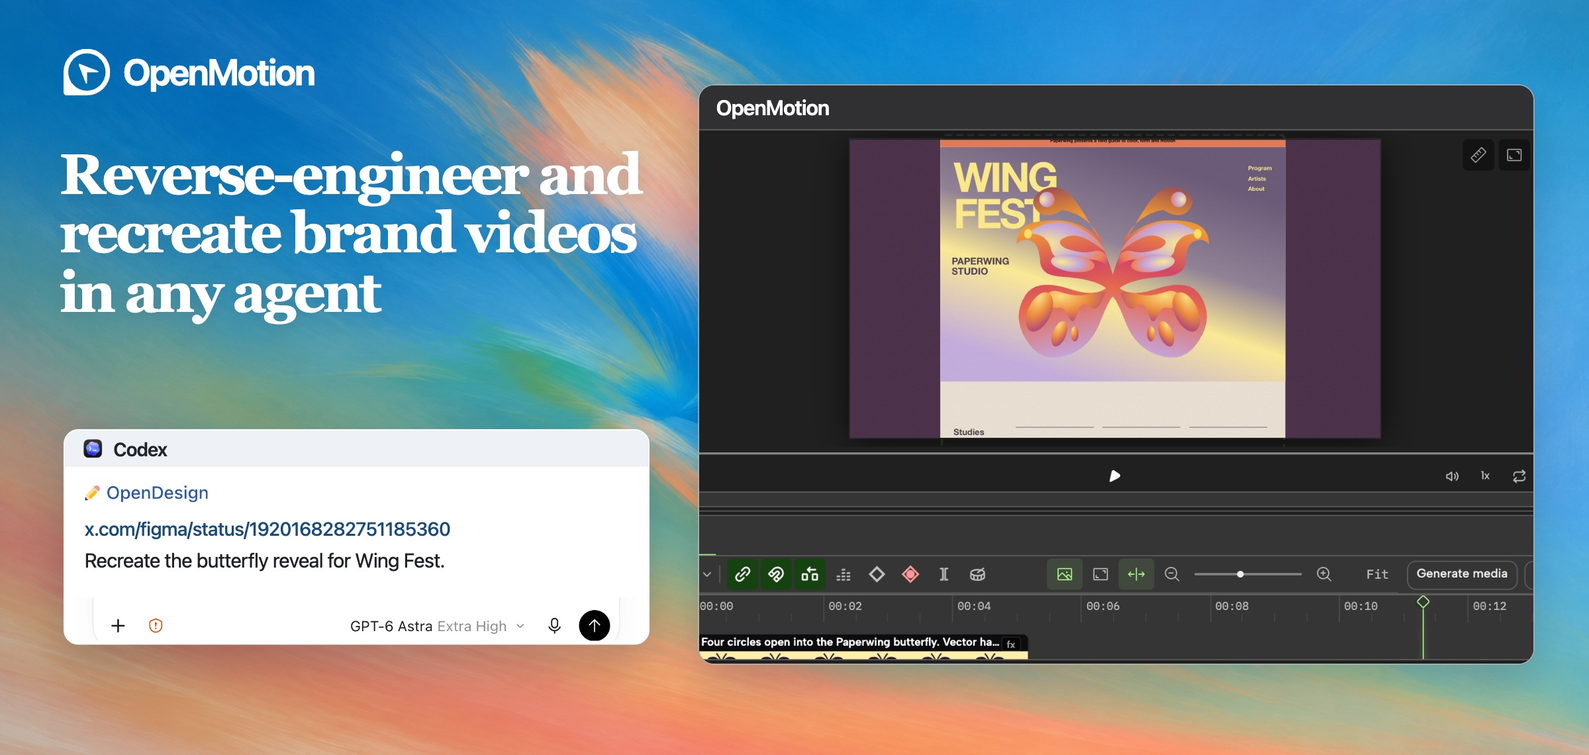
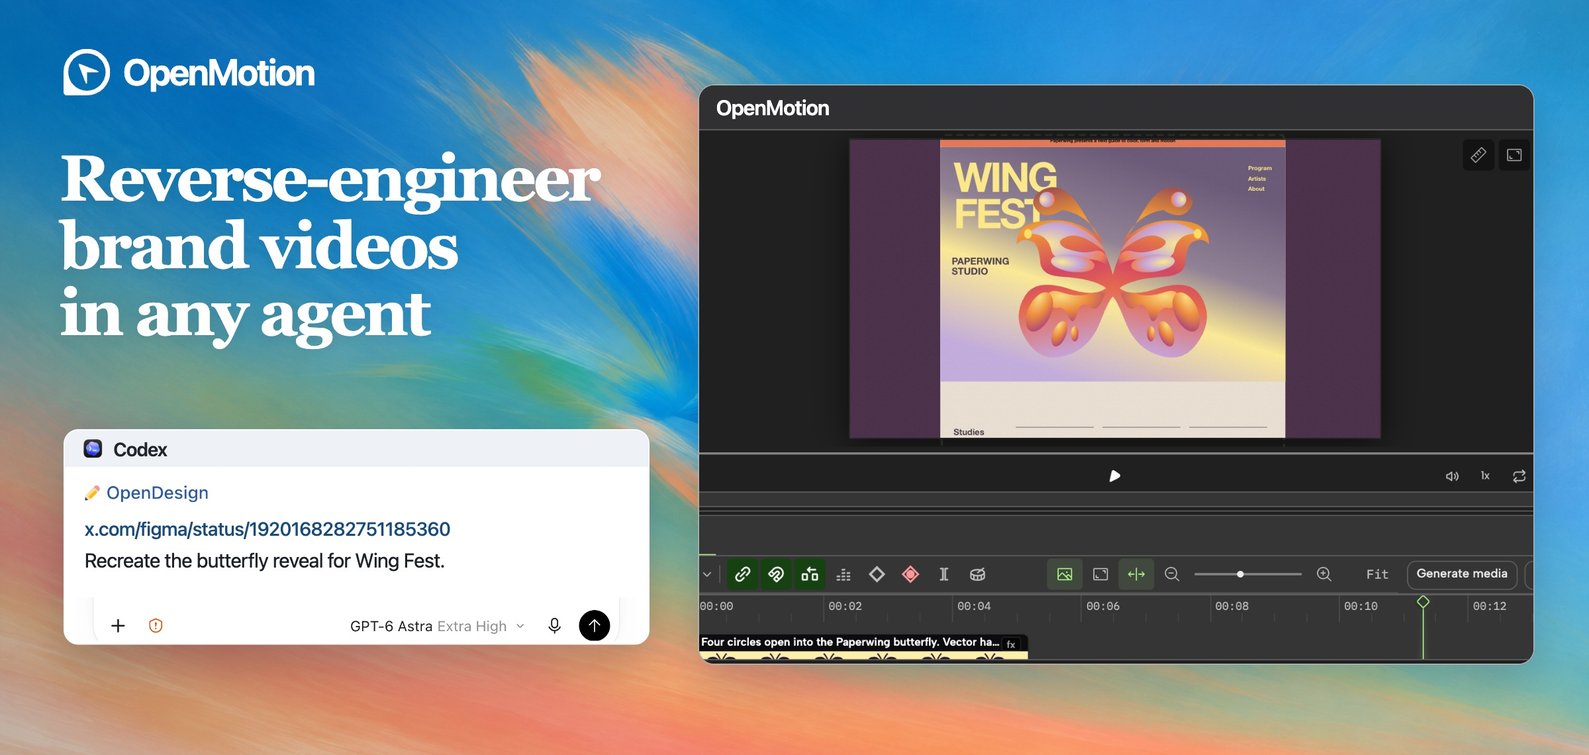
Simplify the OpenMotion README opening

Changed region(s): [[0.0312, 0.1842, 0.4062, 0.4605]]

diff --git a/README.md b/README.md
@@ -1,47 +1,17 @@
-<p align="center"><a href="docs/readme/studio-tour.mp4"><picture><source media="(max-width: 640px)" srcset="docs/readme/cover.mobile.jpg" /><img src="docs/readme/cover.jpg" width="100%" alt="Codex shows the Figma Draw reference, and OpenMotion shows the Wing Fest butterfly poster on its timeline." /></picture></a></p>
+<h1 align="center"><a href="docs/readme/studio-tour.mp4"><picture><source media="(max-width: 640px)" srcset="docs/readme/cover.mobile.jpg" /><img src="docs/readme/cover.jpg" width="100%" alt="OpenMotion — Reverse-engineer brand videos in any agent" /></picture></a></h1>
 
-<h1 align="center">OpenMotion — Reverse-engineer and recreate brand videos in any agent</h1>
+<p align="center">Upload any brand video or paste a social video link to recreate its motion with your own assets.</p>
 
-<p align="center">
-  <a href="https://github.com/nexu-io/html-anything/stargazers"><img src="https://img.shields.io/github/stars/nexu-io/html-anything?style=flat-square&amp;logo=github&amp;label=Stars&amp;color=8a6500" alt="GitHub repository stars" /></a>
-  <a href="package.json"><img src="https://img.shields.io/badge/Node.js-22.18%2B-417e38?style=flat-square" alt="Node.js 22.18+" /></a>
-  <a href="LICENSE"><img src="https://img.shields.io/badge/License-Apache_2.0-395f84?style=flat-square" alt="Apache 2.0 license" /></a>
-</p>
+<p align="center"><strong><a href="#agent-setup">Quickstart</a></strong> · <a href="docs/README.zh-CN.md">简体中文</a></p>
 
-<p align="center">Paste an X or YouTube link, or pick from <strong><a href="#motion-library-and-collections">100+ one-click video recreation templates</a></strong>. Swap in your brand’s logo and product screenshots, edit in Studio and export an MP4.</p>
-
-<p align="center"><strong><a href="docs/readme/studio-tour.mp4">Watch the 10-second Codex demo</a></strong> · <strong><a href="#agent-setup">Set up your agent</a></strong></p>
-
-<p align="center">
-  <a href="https://open-design.ai/openmotion?utm_source=github&amp;utm_medium=referral&amp;utm_campaign=openmotion&amp;utm_content=readme_en"><img src="https://img.shields.io/badge/OpenMotion-Website-bc334e?style=flat-square" alt="OpenMotion website" /></a>
-  <a href="https://go.open-design.ai/?utm_source=github&amp;utm_medium=referral&amp;utm_campaign=openmotion&amp;utm_content=readme_en"><img src="https://img.shields.io/badge/OpenDesign_Go-526442?style=flat-square" alt="OpenDesign Go model subscriptions" /></a>
-  <a href="https://discord.gg/mHAjSMV6gz"><img src="https://img.shields.io/badge/Discord-5865F2?style=flat-square&amp;logo=discord&amp;logoColor=white" alt="Join the OpenDesign Discord" /></a>
-  <a href="https://x.com/OpenDesignHQ"><img src="https://img.shields.io/badge/@OpenDesignHQ-16181c?style=flat-square&amp;logo=x&amp;logoColor=white" alt="OpenDesign on X (@OpenDesignHQ)" /></a>
-  <a href="https://x.com/OpenDesignDevs"><img src="https://img.shields.io/badge/@OpenDesignDevs-16181c?style=flat-square&amp;logo=x&amp;logoColor=white" alt="OpenDesign Developers on X (@OpenDesignDevs)" /></a>
-  <a href="https://www.youtube.com/channel/UChtshixMhvtgBWzoD9R_Qfg"><img src="https://img.shields.io/badge/YouTube-b91c1c?style=flat-square&amp;logo=youtube&amp;logoColor=white" alt="OpenDesign on YouTube" /></a>
-</p>
+## Make a reference your own
 
 <p align="center"><a href="docs/readme/studio-tour.mp4"><picture>
   <source media="(prefers-reduced-motion: reduce)" srcset="docs/readme/codex-comparison.jpg" />
   <img src="docs/readme/codex-comparison.webp" width="100%" alt="From a Figma Draw reference in Codex to the butterfly reveal in Studio, then five seconds of the original and Wing Fest playing side by side." />
 </picture></a></p>
 
-<p align="center">
-  <a href="#start-in-codex"><img src="docs/readme/agents/codex-badge.svg" width="144" height="34" alt="Codex setup" /></a>
-  <a href="docs/agent-adapters.md#codex--claude-code"><img src="docs/readme/agents/claude-code-badge.svg" width="144" height="34" alt="Claude Code setup" /></a>
-  <a href="docs/agent-adapters.md#deepseek-harness"><img src="docs/readme/agents/deepseek-harness-badge.svg" width="144" height="34" alt="DeepSeek Harness setup" /></a>
-  <a href="docs/agent-adapters.md#workbuddy"><img src="docs/readme/agents/workbuddy-badge.svg" width="144" height="34" alt="WorkBuddy setup (preview)" /></a>
-</p>
-
-<p align="center">Study the shot beat by beat with the <a href="examples/reference-reveal/MOTION.md">open-source Firecrawl MOTION.md</a>, from the number reveal to the closing logo.</p>
-
-<p align="center"><a href="https://x.com/figma/status/1920168282751185360">Watch Figma’s original</a> · <a href="examples/reference-reveal/comparison.mp4">Firecrawl original vs. remake · 5s</a> · <a href="#make-a-reference-your-own">Compare seven brand films</a></p>
-
-<p align="center"><a href="docs/README.zh-CN.md">简体中文</a> · <a href="docs/collections/README.md">Find a reference</a> · <a href="https://github.com/nexu-io/html-anything/tree/legacy#readme">Original HTML Anything editor &amp; installation guide</a></p>
-
-OpenMotion is an open-source motion design plugin for agents that can run local MCP tools. Our goal is to build the best open-source alternative to Claude Motion. You can start with a brand film, a product walkthrough or a launch video. Pick one shot. What moves first? When does the product come into view? How long does the audience get to read the headline? **Motion MD** is our draft Markdown format for recording those decisions so another team can recreate the motion with its own assets.
-
-## Make a reference your own
+From [Figma Draw’s original film](https://x.com/figma/status/1920168282751185360) to a Wing Fest poster. Play the demo to see the butterfly reveal recreated in Codex.
 
 Watch the original X footage on the left and an editable OpenMotion remake on the right. Each pair plays five seconds at normal speed on the same clock. Open a clip and scrub the reveal frame by frame.
 
@@ -54,6 +24,8 @@ Watch the original X footage on the left and an editable OpenMotion remake on th
 | [ElevenLabs](https://x.com/ElevenLabs/status/2069111326987673761)<br />00:50–00:55 | <a href="examples/brand-studies/elevenlabs/comparison.mp4"><picture><source media="(prefers-reduced-motion: reduce)" srcset="examples/brand-studies/elevenlabs/comparison.jpg" /><img src="examples/brand-studies/elevenlabs/comparison.webp" width="290" alt="ElevenLabs original playing beside the OpenMotion remake" /></picture></a> | Rolling wordmark suffixes<br />[MP4](examples/brand-studies/elevenlabs/film.mp4) · [Source](examples/brand-studies/elevenlabs/index.html) |
 | [Apple](https://x.com/tim_cook/status/1896589954517701057)<br />00:00.75–00:05.75 | <a href="examples/brand-studies/apple/comparison.mp4"><picture><source media="(prefers-reduced-motion: reduce)" srcset="examples/brand-studies/apple/comparison.jpg" /><img src="examples/brand-studies/apple/comparison.webp" width="290" alt="Apple original playing beside the OpenMotion remake" /></picture></a> | A single word folds into a ribbon<br />[MP4](examples/brand-studies/apple/film.mp4) · [Source](examples/brand-studies/apple/index.html) |
 | [Slack](https://x.com/SlackHQ/status/1085609385542459393)<br />00:00–00:05 | <a href="examples/brand-studies/slack/comparison.mp4"><picture><source media="(prefers-reduced-motion: reduce)" srcset="examples/brand-studies/slack/comparison.jpg" /><img src="examples/brand-studies/slack/comparison.webp" width="290" alt="Slack original playing beside the OpenMotion remake" /></picture></a> | Four colors scatter and regroup<br />[MP4](examples/brand-studies/slack/film.mp4) · [Source](examples/brand-studies/slack/index.html) |
+
+[Explore 100+ brand video references with one-click recreation prompts](#motion-library-and-collections)
 
 To try the Apple shot with your own wordmark, open your brand assets in your agent and paste this prompt.
 
@@ -88,14 +60,14 @@ All three films were exported through the plugin. Each is silent by design. [Get
 
 ## Agent setup
 
-OpenMotion runs on your computer. Choose an agent that can launch a local MCP server over stdio. Each connection opens the same editable Studio projects.
+OpenMotion is an open-source motion design plugin that runs on your computer. Choose an agent that can launch a local MCP server over stdio. Each connection opens the same editable Studio projects.
 
 | Agent | How to connect |
 | --- | --- |
-| **Codex** | Install the plugin, then open **Plugins → OpenDesign → Try now**. [Installation steps](#start-in-codex) |
-| **Claude Code** | Use the local installer with `--host claude` to register the MCP server and install the skills. [Local plugin option](docs/agent-adapters.md#codex--claude-code) |
-| **DeepSeek Harness** | Use `--host deepseek` with a profile that has a model configured. [Harness profile and MCP setup](docs/agent-adapters.md#deepseek-harness) |
-| **WorkBuddy** *(preview)* | Use `--host workbuddy` for custom MCP and skills. Desktop import and video export still need an end-to-end test. [Connector setup](docs/agent-adapters.md#workbuddy) |
+| <a href="#start-in-codex"><img src="docs/readme/agents/codex-badge.svg" width="144" height="34" alt="Codex setup" /></a> | Install the plugin, then open **Plugins → OpenDesign → Try now**. [Installation steps](#start-in-codex) |
+| <a href="docs/agent-adapters.md#codex--claude-code"><img src="docs/readme/agents/claude-code-badge.svg" width="144" height="34" alt="Claude Code setup" /></a> | Use the local installer with `--host claude` to register the MCP server and install the skills. [Local plugin option](docs/agent-adapters.md#codex--claude-code) |
+| <a href="docs/agent-adapters.md#deepseek-harness"><img src="docs/readme/agents/deepseek-harness-badge.svg" width="144" height="34" alt="DeepSeek Harness setup" /></a> | Use `--host deepseek` with a profile that has a model configured. [Harness profile and MCP setup](docs/agent-adapters.md#deepseek-harness) |
+| <a href="docs/agent-adapters.md#workbuddy"><img src="docs/readme/agents/workbuddy-badge.svg" width="144" height="34" alt="WorkBuddy setup (preview)" /></a> | Use `--host workbuddy` for custom MCP and skills. Desktop import and video export still need an end-to-end test. [Connector setup](docs/agent-adapters.md#workbuddy) |
 
 <details>
 <summary>Install with the local installer</summary>
@@ -154,7 +126,7 @@ A useful motion brief names both the creative decision and what a teammate may c
 | 1.5–4s | Let the central mark settle while the outer tiles keep turning. | Your symbol and the inputs or features that belong around it. |
 | 4–5s | Follow the same mark into the closing handoff. | The input your customer provides and the result they get. |
 
-The first planned collection covers 100+ brand-film MOTION.md breakdowns. The Firecrawl study below is available now.
+The first planned collection covers 100+ brand-film MOTION.md breakdowns. Watch the [five-second Firecrawl comparison](examples/reference-reveal/comparison.mp4) alongside the published brief below.
 
 Give your agent the Markdown brief along with the project. The brief guides the edit. The HTML, CSS, JavaScript and media supply the animation. [Motion MD v0.1 proposal](docs/motion-md.md) · [Working brief and both exports](examples/reference-reveal/MOTION.md)
 
@@ -177,6 +149,25 @@ To review a remix today, pause both films on the reveal, check whose brand is on
 
 ## Build and contribute
 
-OpenMotion includes five creation workflows and nine MCP tools. You can adapt a template, recreate a reference or turn a video into a reusable template folder. To contribute a style, include the original source and creator, your Motion MD, a preview, the editable project and permission to share the assets. [Workflows](docs/skills.md) · [MCP tools](docs/mcp-phase1-tools.md) · [Contributing](CONTRIBUTING.md)
+<p align="center">
+  <a href="https://github.com/nexu-io/html-anything/stargazers"><img src="https://img.shields.io/github/stars/nexu-io/html-anything?style=flat-square&amp;logo=github&amp;label=Stars&amp;color=8a6500" alt="GitHub repository stars" /></a>
+  <a href="package.json"><img src="https://img.shields.io/badge/Node.js-22.18%2B-417e38?style=flat-square" alt="Node.js 22.18+" /></a>
+  <a href="LICENSE"><img src="https://img.shields.io/badge/License-Apache_2.0-395f84?style=flat-square" alt="Apache 2.0 license" /></a>
+</p>
+
+Our goal is to build the best open-source alternative to Claude Motion. OpenMotion includes five creation workflows and nine MCP tools. You can adapt a template, recreate a reference or turn a video into a reusable template folder. To contribute a style, include the original source and creator, your Motion MD, a preview, the editable project and permission to share the assets. [Workflows](docs/skills.md) · [MCP tools](docs/mcp-phase1-tools.md) · [Contributing](CONTRIBUTING.md)
 
 Install from this branch or [build the npm installer locally](docs/npm-installation.md). OpenMotion is licensed under [Apache-2.0](LICENSE) and uses [Hyperframes](https://github.com/heygen-com/hyperframes) for Studio and rendering. The [bundled examples](template-library/NOTICE.md), [Studio](studio/LICENSE) and [fonts](web/design-system/fonts/NOTICES.txt) carry their upstream notices.
+
+## Community
+
+<p align="center">
+  <a href="https://open-design.ai/openmotion?utm_source=github&amp;utm_medium=referral&amp;utm_campaign=openmotion&amp;utm_content=readme_en"><img src="https://img.shields.io/badge/OpenMotion-Website-bc334e?style=flat-square" alt="OpenMotion website" /></a>
+  <a href="https://go.open-design.ai/?utm_source=github&amp;utm_medium=referral&amp;utm_campaign=openmotion&amp;utm_content=readme_en"><img src="https://img.shields.io/badge/OpenDesign_Go-526442?style=flat-square" alt="OpenDesign Go model subscriptions" /></a>
+  <a href="https://discord.gg/mHAjSMV6gz"><img src="https://img.shields.io/badge/Discord-5865F2?style=flat-square&amp;logo=discord&amp;logoColor=white" alt="Join the OpenDesign Discord" /></a>
+  <a href="https://x.com/OpenDesignHQ"><img src="https://img.shields.io/badge/@OpenDesignHQ-16181c?style=flat-square&amp;logo=x&amp;logoColor=white" alt="OpenDesign on X (@OpenDesignHQ)" /></a>
+  <a href="https://x.com/OpenDesignDevs"><img src="https://img.shields.io/badge/@OpenDesignDevs-16181c?style=flat-square&amp;logo=x&amp;logoColor=white" alt="OpenDesign Developers on X (@OpenDesignDevs)" /></a>
+  <a href="https://www.youtube.com/channel/UChtshixMhvtgBWzoD9R_Qfg"><img src="https://img.shields.io/badge/YouTube-b91c1c?style=flat-square&amp;logo=youtube&amp;logoColor=white" alt="OpenDesign on YouTube" /></a>
+</p>
+
+[Original HTML Anything editor and installation guide](https://github.com/nexu-io/html-anything/tree/legacy#readme)

diff --git a/docs/README.zh-CN.md b/docs/README.zh-CN.md
@@ -1,47 +1,17 @@
-<p align="center"><a href="readme/studio-tour.zh-CN.mp4"><picture><source media="(max-width: 640px)" srcset="readme/cover.mobile.zh-CN.jpg" /><img src="readme/cover.zh-CN.jpg" width="100%" alt="在 Codex 输入 Figma Draw 参考片链接，OpenMotion 时间轴显示复刻的 Wing Fest 蝴蝶海报。" /></picture></a></p>
+<h1 align="center"><a href="readme/studio-tour.zh-CN.mp4"><picture><source media="(max-width: 640px)" srcset="readme/cover.mobile.zh-CN.jpg" /><img src="readme/cover.zh-CN.jpg" width="100%" alt="OpenMotion · 用任意 Agent 拆解并复刻品牌视频" /></picture></a></h1>
 
-<h1 align="center">OpenMotion · 用任意 Agent 拆解并复刻品牌视频</h1>
+<p align="center">上传任意品牌视频，或粘贴社媒视频链接，用自己的品牌素材复刻原片的动效。</p>
 
-<p align="center">
-  <a href="https://github.com/nexu-io/html-anything/stargazers"><img src="https://img.shields.io/github/stars/nexu-io/html-anything?style=flat-square&amp;logo=github&amp;label=Stars&amp;color=8a6500" alt="GitHub 仓库星标数" /></a>
-  <a href="../package.json"><img src="https://img.shields.io/badge/Node.js-22.18%2B-417e38?style=flat-square" alt="Node.js 22.18+" /></a>
-  <a href="../LICENSE"><img src="https://img.shields.io/badge/License-Apache_2.0-395f84?style=flat-square" alt="Apache 2.0 许可证" /></a>
-</p>
+<p align="center"><strong><a href="#接入你的-agent">开始使用</a></strong> · <a href="../README.md">English</a></p>
 
-<p align="center">贴一条 X 或 YouTube 链接，或从 <strong><a href="#motion-资源库与主题合集">100+ 个可一键复刻的视频模板</a></strong>里选一支。换上自己品牌的 Logo 和产品截图，在 Studio 里改镜头、导出 MP4。</p>
-
-<p align="center"><strong><a href="readme/studio-tour.zh-CN.mp4">看 10 秒 Codex 演示</a></strong> · <strong><a href="#接入你的-agent">接入你的 Agent</a></strong></p>
-
-<p align="center">
-  <a href="https://open-design.ai/openmotion?utm_source=github&amp;utm_medium=referral&amp;utm_campaign=openmotion&amp;utm_content=readme_zh"><img src="https://img.shields.io/badge/OpenMotion-%E5%AE%98%E7%BD%91-bc334e?style=flat-square" alt="OpenMotion 官网" /></a>
-  <a href="https://go.open-design.ai/?utm_source=github&amp;utm_medium=referral&amp;utm_campaign=openmotion&amp;utm_content=readme_zh"><img src="https://img.shields.io/badge/OpenDesign_Go-526442?style=flat-square" alt="OpenDesign Go 模型订阅" /></a>
-  <a href="https://discord.gg/mHAjSMV6gz"><img src="https://img.shields.io/badge/Discord-5865F2?style=flat-square&amp;logo=discord&amp;logoColor=white" alt="加入 OpenDesign Discord" /></a>
-  <a href="https://x.com/OpenDesignHQ"><img src="https://img.shields.io/badge/@OpenDesignHQ-16181c?style=flat-square&amp;logo=x&amp;logoColor=white" alt="OpenDesign 官方 X 账号 @OpenDesignHQ" /></a>
-  <a href="https://x.com/OpenDesignDevs"><img src="https://img.shields.io/badge/@OpenDesignDevs-16181c?style=flat-square&amp;logo=x&amp;logoColor=white" alt="OpenDesign 开发者 X 账号 @OpenDesignDevs" /></a>
-  <a href="https://www.youtube.com/channel/UChtshixMhvtgBWzoD9R_Qfg"><img src="https://img.shields.io/badge/YouTube-b91c1c?style=flat-square&amp;logo=youtube&amp;logoColor=white" alt="OpenDesign 的 YouTube 频道" /></a>
-</p>
+## 复用参考片的拍法
 
 <p align="center"><a href="readme/studio-tour.zh-CN.mp4"><picture>
   <source media="(prefers-reduced-motion: reduce)" srcset="readme/codex-comparison.zh-CN.jpg" />
   <img src="readme/codex-comparison.zh-CN.webp" width="100%" alt="从 Codex 中的 Figma Draw 参考片到 Studio 中的蝴蝶海报，最后同步播放 5 秒原片与复刻。" />
 </picture></a></p>
 
-<p align="center">
-  <a href="#在-codex-里开始"><img src="readme/agents/codex-badge.svg" width="144" height="34" alt="Codex 接入说明" /></a>
-  <a href="agent-adapters.md#codex--claude-code"><img src="readme/agents/claude-code-badge.svg" width="144" height="34" alt="Claude Code 接入说明" /></a>
-  <a href="agent-adapters.md#deepseek-harness"><img src="readme/agents/deepseek-harness-badge.svg" width="144" height="34" alt="DeepSeek Harness 接入说明" /></a>
-  <a href="agent-adapters.md#workbuddy"><img src="readme/agents/workbuddy-badge.svg" width="144" height="34" alt="WorkBuddy（预览）接入说明" /></a>
-</p>
-
-<p align="center">首版开源了<strong><a href="../examples/reference-reveal/MOTION.zh-CN.md">Firecrawl 品牌宣传片的 MOTION.md 拆解</a></strong>，从数字亮相到 Logo 收尾，每一拍都能对照原片。</p>
-
-<p align="center"><a href="https://x.com/figma/status/1920168282751185360">看 Figma Draw 的 X 原帖</a> · <a href="../examples/reference-reveal/comparison.mp4">Firecrawl 原片与复刻 · 5 秒对照</a> · <a href="#复用参考片的拍法">看七个品牌的 5 秒对照</a></p>
-
-<p align="center"><a href="../README.md">English</a> · <a href="collections/README.zh-CN.md">找参考片</a> · <a href="https://github.com/nexu-io/html-anything/blob/legacy/README.zh-CN.md">原 HTML Anything 编辑器与安装说明</a></p>
-
-OpenMotion 是一款通过本地 MCP 接入 Agent 的开源动效设计插件，我们希望把它做成最好的 Claude Motion 开源替代。你可以从品牌形象片、产品演示或新品发布片开始。拆解一个镜头时，先看哪个元素动、产品在哪一拍出现、观众有多久读完标题。用我们提出的 Markdown 动效规范 **Motion MD** 记下这些决定，另一个团队就能带上自己的品牌素材复刻这套拍法。
-
-## 复用参考片的拍法
+从[Figma Draw 原片](https://x.com/figma/status/1920168282751185360)到 Wing Fest 蝴蝶海报。点开演示，看 Codex 如何复刻这段动效。
 
 左边是品牌在 X 发布的原片，右边是用 OpenMotion 单独制作的可编辑工程。每组截取 5 秒，原速同步播放。点击画面可以暂停、拖动，检查两边的动作在哪一帧发生。
 
@@ -54,6 +24,8 @@ OpenMotion 是一款通过本地 MCP 接入 Agent 的开源动效设计插件，
 | [ElevenLabs](https://x.com/ElevenLabs/status/2069111326987673761)<br />00:50–00:55 | <a href="../examples/brand-studies/elevenlabs/comparison.mp4"><picture><source media="(prefers-reduced-motion: reduce)" srcset="../examples/brand-studies/elevenlabs/comparison.jpg" /><img src="../examples/brand-studies/elevenlabs/comparison.webp" width="290" alt="ElevenLabs 原片与 OpenMotion 复刻同步播放" /></picture></a> | 保留品牌词根，滚动替换后缀<br />[MP4](../examples/brand-studies/elevenlabs/film.mp4) · [源码](../examples/brand-studies/elevenlabs/index.html) |
 | [Apple](https://x.com/tim_cook/status/1896589954517701057)<br />00:00.75–00:05.75 | <a href="../examples/brand-studies/apple/comparison.mp4"><picture><source media="(prefers-reduced-motion: reduce)" srcset="../examples/brand-studies/apple/comparison.jpg" /><img src="../examples/brand-studies/apple/comparison.webp" width="290" alt="Apple 原片与 OpenMotion 复刻同步播放" /></picture></a> | 文字逐拍放大，字形折成丝带<br />[MP4](../examples/brand-studies/apple/film.mp4) · [源码](../examples/brand-studies/apple/index.html) |
 | [Slack](https://x.com/SlackHQ/status/1085609385542459393)<br />00:00–00:05 | <a href="../examples/brand-studies/slack/comparison.mp4"><picture><source media="(prefers-reduced-motion: reduce)" srcset="../examples/brand-studies/slack/comparison.jpg" /><img src="../examples/brand-studies/slack/comparison.webp" width="290" alt="Slack 原片与 OpenMotion 复刻同步播放" /></picture></a> | 四色线条散开，重新拼成品牌标记<br />[MP4](../examples/brand-studies/slack/film.mp4) · [源码](../examples/brand-studies/slack/index.html) |
+
+[浏览 100+ 个可一键复刻的品牌视频参考](#motion-资源库与主题合集)
 
 在 Agent 里试试 Apple 这一行。打开自己的品牌素材目录，再贴入这段指令。
 
@@ -88,14 +60,14 @@ https://x.com/tim_cook/status/1896589954517701057
 
 ## 接入你的 Agent
 
-OpenMotion 在你的电脑上运行。选择能通过 stdio 启动本地 MCP 服务的 Agent 接入，即可在同一个 Studio 里继续编辑工程。
+OpenMotion 是一款本地运行的开源动效设计插件。选择能通过 stdio 启动本地 MCP 服务的 Agent 接入，即可在同一个 Studio 里继续编辑工程。
 
 | Agent | 怎么接入 |
 | --- | --- |
-| **Codex** | 安装插件，在 **Plugins → OpenDesign → Try now** 打开。[查看安装步骤](#在-codex-里开始) |
-| **Claude Code** | 给本地安装器加上 `--host claude`，注册 MCP 服务并安装 Skills。[本地插件接入方式](agent-adapters.md#codex--claude-code) |
-| **DeepSeek Harness** | 先为要使用的 profile 配好模型，再用 `--host deepseek` 接入。[Harness 配置说明](agent-adapters.md#deepseek-harness) |
-| **WorkBuddy** *（预览）* | 用 `--host workbuddy` 接入自定义 MCP 和 Skills。桌面端从导入到出片的完整流程仍待实机验证。[Connector 接入说明](agent-adapters.md#workbuddy) |
+| <a href="#在-codex-里开始"><img src="readme/agents/codex-badge.svg" width="144" height="34" alt="Codex 接入说明" /></a> | 安装插件，在 **Plugins → OpenDesign → Try now** 打开。[查看安装步骤](#在-codex-里开始) |
+| <a href="agent-adapters.md#codex--claude-code"><img src="readme/agents/claude-code-badge.svg" width="144" height="34" alt="Claude Code 接入说明" /></a> | 给本地安装器加上 `--host claude`，注册 MCP 服务并安装 Skills。[本地插件接入方式](agent-adapters.md#codex--claude-code) |
+| <a href="agent-adapters.md#deepseek-harness"><img src="readme/agents/deepseek-harness-badge.svg" width="144" height="34" alt="DeepSeek Harness 接入说明" /></a> | 先为要使用的 profile 配好模型，再用 `--host deepseek` 接入。[Harness 配置说明](agent-adapters.md#deepseek-harness) |
+| <a href="agent-adapters.md#workbuddy"><img src="readme/agents/workbuddy-badge.svg" width="144" height="34" alt="WorkBuddy（预览）接入说明" /></a> | 用 `--host workbuddy` 接入自定义 MCP 和 Skills。桌面端从导入到出片的完整流程仍待实机验证。[Connector 接入说明](agent-adapters.md#workbuddy) |
 
 <details>
 <summary>查看本地安装命令</summary>
@@ -154,7 +126,7 @@ cd OpenMotion && bash scripts/install-motion.command
 | 1.5–4 秒 | 中央标志落定，外围卡片继续旋转。 | 你的品牌标志，以及围绕它的素材、功能或产品。 |
 | 4–5 秒 | 让同一个标志进入最后的交接镜头。 | 客户提供什么输入，最后得到什么结果。 |
 
-首批品牌宣传片 MOTION.md 合集计划收录 100 多份拆解。现在可以先读 Firecrawl 的完整样例。
+首批品牌宣传片 MOTION.md 合集计划收录 100 多份拆解。现在可以先看 [Firecrawl 原片与复刻的 5 秒对照](../examples/reference-reveal/comparison.mp4)，再读下面的完整样例。
 
 把 Markdown 文件和工程一起交给 Agent。它可以按这份说明改稿，实际动画保存在 HTML、CSS、JavaScript 和素材文件里。[Motion MD v0.1 草案](motion-md.zh-CN.md) · [本片的说明与两次导出](../examples/reference-reveal/MOTION.zh-CN.md)
 
@@ -178,6 +150,25 @@ cd OpenMotion && bash scripts/install-motion.command
 
 ## 构建与贡献
 
-OpenMotion 提供五个创作工作流和九个 MCP 工具。除了直接改模板和复刻参考片，还可以把视频做成可复用的模板目录。贡献一种风格时，请附上原片出处与作者、Motion MD、预览、可编辑工程和素材授权说明。[工作流](skills.md) · [MCP 工具](mcp-phase1-tools.md) · [贡献指南](../CONTRIBUTING.zh-CN.md)
+<p align="center">
+  <a href="https://github.com/nexu-io/html-anything/stargazers"><img src="https://img.shields.io/github/stars/nexu-io/html-anything?style=flat-square&amp;logo=github&amp;label=Stars&amp;color=8a6500" alt="GitHub 仓库星标数" /></a>
+  <a href="../package.json"><img src="https://img.shields.io/badge/Node.js-22.18%2B-417e38?style=flat-square" alt="Node.js 22.18+" /></a>
+  <a href="../LICENSE"><img src="https://img.shields.io/badge/License-Apache_2.0-395f84?style=flat-square" alt="Apache 2.0 许可证" /></a>
+</p>
+
+我们的目标是把 OpenMotion 做成最好的 Claude Motion 开源替代。OpenMotion 提供五个创作工作流和九个 MCP 工具。除了直接改模板和复刻参考片，还可以把视频做成可复用的模板目录。贡献一种风格时，请附上原片出处与作者、Motion MD、预览、可编辑工程和素材授权说明。[工作流](skills.md) · [MCP 工具](mcp-phase1-tools.md) · [贡献指南](../CONTRIBUTING.zh-CN.md)
 
 可以从本分支安装，也可以[在本地构建 npm 安装器](npm-installation.md)。OpenMotion 采用 [Apache-2.0](../LICENSE) 许可，使用 [Hyperframes](https://github.com/heygen-com/hyperframes) 构建 Studio 和渲染视频。[内置示例](../template-library/NOTICE.md)、[编辑器](../studio/LICENSE)和[字体](../web/design-system/fonts/NOTICES.txt)附有各自的上游声明。
+
+## 社区
+
+<p align="center">
+  <a href="https://open-design.ai/openmotion?utm_source=github&amp;utm_medium=referral&amp;utm_campaign=openmotion&amp;utm_content=readme_zh"><img src="https://img.shields.io/badge/OpenMotion-%E5%AE%98%E7%BD%91-bc334e?style=flat-square" alt="OpenMotion 官网" /></a>
+  <a href="https://go.open-design.ai/?utm_source=github&amp;utm_medium=referral&amp;utm_campaign=openmotion&amp;utm_content=readme_zh"><img src="https://img.shields.io/badge/OpenDesign_Go-526442?style=flat-square" alt="OpenDesign Go 模型订阅" /></a>
+  <a href="https://discord.gg/mHAjSMV6gz"><img src="https://img.shields.io/badge/Discord-5865F2?style=flat-square&amp;logo=discord&amp;logoColor=white" alt="加入 OpenDesign Discord" /></a>
+  <a href="https://x.com/OpenDesignHQ"><img src="https://img.shields.io/badge/@OpenDesignHQ-16181c?style=flat-square&amp;logo=x&amp;logoColor=white" alt="OpenDesign 官方 X 账号 @OpenDesignHQ" /></a>
+  <a href="https://x.com/OpenDesignDevs"><img src="https://img.shields.io/badge/@OpenDesignDevs-16181c?style=flat-square&amp;logo=x&amp;logoColor=white" alt="OpenDesign 开发者 X 账号 @OpenDesignDevs" /></a>
+  <a href="https://www.youtube.com/channel/UChtshixMhvtgBWzoD9R_Qfg"><img src="https://img.shields.io/badge/YouTube-b91c1c?style=flat-square&amp;logo=youtube&amp;logoColor=white" alt="OpenDesign 的 YouTube 频道" /></a>
+</p>
+
+[原 HTML Anything 编辑器与安装说明](https://github.com/nexu-io/html-anything/blob/legacy/README.zh-CN.md)

diff --git a/README.zh-CN.md b/README.zh-CN.md
@@ -1,16 +1,27 @@
-<p align="center"><a href="docs/readme/studio-tour.zh-CN.mp4"><picture><source media="(max-width: 640px)" srcset="docs/readme/cover.mobile.zh-CN.jpg" /><img src="docs/readme/cover.zh-CN.jpg" width="100%" alt="在 Codex 输入 Figma Draw 参考片链接，OpenMotion 时间轴显示复刻的 Wing Fest 蝴蝶海报。" /></picture></a></p>
+<h1 align="center"><a href="docs/readme/studio-tour.zh-CN.mp4"><picture><source media="(max-width: 640px)" srcset="docs/readme/cover.mobile.zh-CN.jpg" /><img src="docs/readme/cover.zh-CN.jpg" width="100%" alt="OpenMotion · 用任意 Agent 拆解并复刻品牌视频" /></picture></a></h1>
 
-# OpenMotion · 用任意 Agent 拆解并复刻品牌视频
+<p align="center">上传任意品牌视频，或粘贴社媒视频链接，用自己的品牌素材复刻原片的动效。</p>
+
+<p align="center"><strong><a href="docs/README.zh-CN.md#接入你的-agent">开始使用</a></strong> · <a href="docs/README.zh-CN.md">完整中文版</a> · <a href="README.md">English</a></p>
+
+## 复刻案例
+
+<p align="center"><a href="docs/readme/studio-tour.zh-CN.mp4"><picture>
+  <source media="(prefers-reduced-motion: reduce)" srcset="docs/readme/codex-comparison.zh-CN.jpg" />
+  <img src="docs/readme/codex-comparison.zh-CN.webp" width="100%" alt="从 Codex 中的 Figma Draw 参考片到 Studio 中的蝴蝶海报，最后同步播放 5 秒原片与复刻。" />
+</picture></a></p>
+
+从[Figma Draw 原片](https://x.com/figma/status/1920168282751185360)到 Wing Fest 蝴蝶海报。点开演示，看 Codex 如何复刻这段动效。
+
+[查看七个品牌的 5 秒对照](docs/README.zh-CN.md#复用参考片的拍法) · [浏览 100+ 个一键复刻参考](docs/README.zh-CN.md#motion-资源库与主题合集)
+
+## 项目与社区
 
 <p align="center">
   <a href="https://github.com/nexu-io/html-anything/stargazers"><img src="https://img.shields.io/github/stars/nexu-io/html-anything?style=flat-square&amp;logo=github&amp;label=Stars&amp;color=8a6500" alt="GitHub 仓库星标数" /></a>
   <a href="package.json"><img src="https://img.shields.io/badge/Node.js-22.18%2B-417e38?style=flat-square" alt="Node.js 22.18+" /></a>
   <a href="LICENSE"><img src="https://img.shields.io/badge/License-Apache_2.0-395f84?style=flat-square" alt="Apache 2.0 许可证" /></a>
 </p>
-
-贴一条 X 或 YouTube 链接，或从 **[100+ 个可一键复刻的视频模板](docs/README.zh-CN.md#motion-资源库与主题合集)**里选一支。换上自己品牌的 Logo 和产品截图，在 Studio 里改镜头、导出 MP4。
-
-**[看 10 秒 Codex 演示](docs/readme/studio-tour.zh-CN.mp4)** · **[接入你的 Agent](docs/README.zh-CN.md#接入你的-agent)**
 
 <p align="center">
   <a href="https://open-design.ai/openmotion?utm_source=github&amp;utm_medium=referral&amp;utm_campaign=openmotion&amp;utm_content=readme_zh"><img src="https://img.shields.io/badge/OpenMotion-%E5%AE%98%E7%BD%91-bc334e?style=flat-square" alt="OpenMotion 官网" /></a>
@@ -21,20 +32,4 @@
   <a href="https://www.youtube.com/channel/UChtshixMhvtgBWzoD9R_Qfg"><img src="https://img.shields.io/badge/YouTube-b91c1c?style=flat-square&amp;logo=youtube&amp;logoColor=white" alt="OpenDesign 的 YouTube 频道" /></a>
 </p>
 
-<p align="center"><a href="docs/readme/studio-tour.zh-CN.mp4"><picture>
-  <source media="(prefers-reduced-motion: reduce)" srcset="docs/readme/codex-comparison.zh-CN.jpg" />
-  <img src="docs/readme/codex-comparison.zh-CN.webp" width="100%" alt="从 Codex 中的 Figma Draw 参考片到 Studio 中的蝴蝶海报，最后同步播放 5 秒原片与复刻。" />
-</picture></a></p>
-
-<p align="center">
-  <a href="docs/README.zh-CN.md#在-codex-里开始"><img src="docs/readme/agents/codex-badge.svg" width="144" height="34" alt="Codex 接入说明" /></a>
-  <a href="docs/agent-adapters.md#codex--claude-code"><img src="docs/readme/agents/claude-code-badge.svg" width="144" height="34" alt="Claude Code 接入说明" /></a>
-  <a href="docs/agent-adapters.md#deepseek-harness"><img src="docs/readme/agents/deepseek-harness-badge.svg" width="144" height="34" alt="DeepSeek Harness 接入说明" /></a>
-  <a href="docs/agent-adapters.md#workbuddy"><img src="docs/readme/agents/workbuddy-badge.svg" width="144" height="34" alt="WorkBuddy（预览）接入说明" /></a>
-</p>
-
-首版开源了**[Firecrawl 品牌宣传片的 MOTION.md 拆解](examples/reference-reveal/MOTION.zh-CN.md)**，从数字亮相到 Logo 收尾，每一拍都能对照原片。
-
-[看 Figma Draw 的 X 原帖](https://x.com/figma/status/1920168282751185360) · [Firecrawl 原片与复刻 · 5 秒对照](examples/reference-reveal/comparison.mp4) · [看七个品牌的 5 秒同步对照](docs/README.zh-CN.md#复用参考片的拍法)
-
-[阅读完整中文 README](docs/README.zh-CN.md) · [原 HTML Anything 编辑器与安装说明](https://github.com/nexu-io/html-anything/blob/legacy/README.zh-CN.md) · [English](README.md)
+[原 HTML Anything 编辑器与安装说明](https://github.com/nexu-io/html-anything/blob/legacy/README.zh-CN.md)
